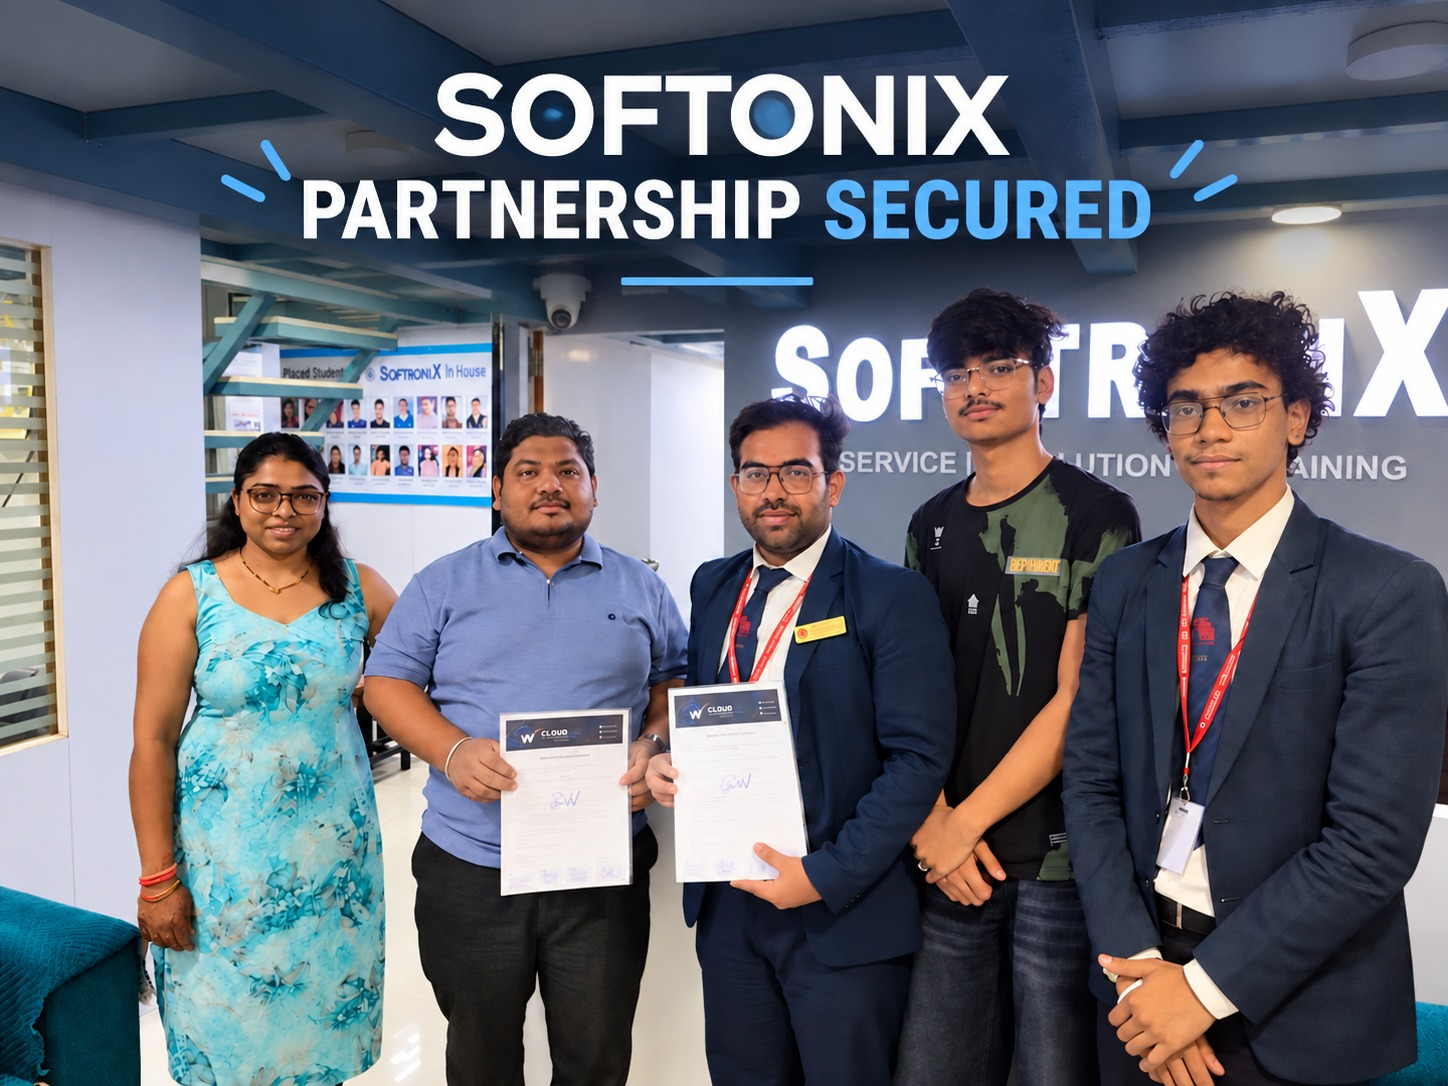
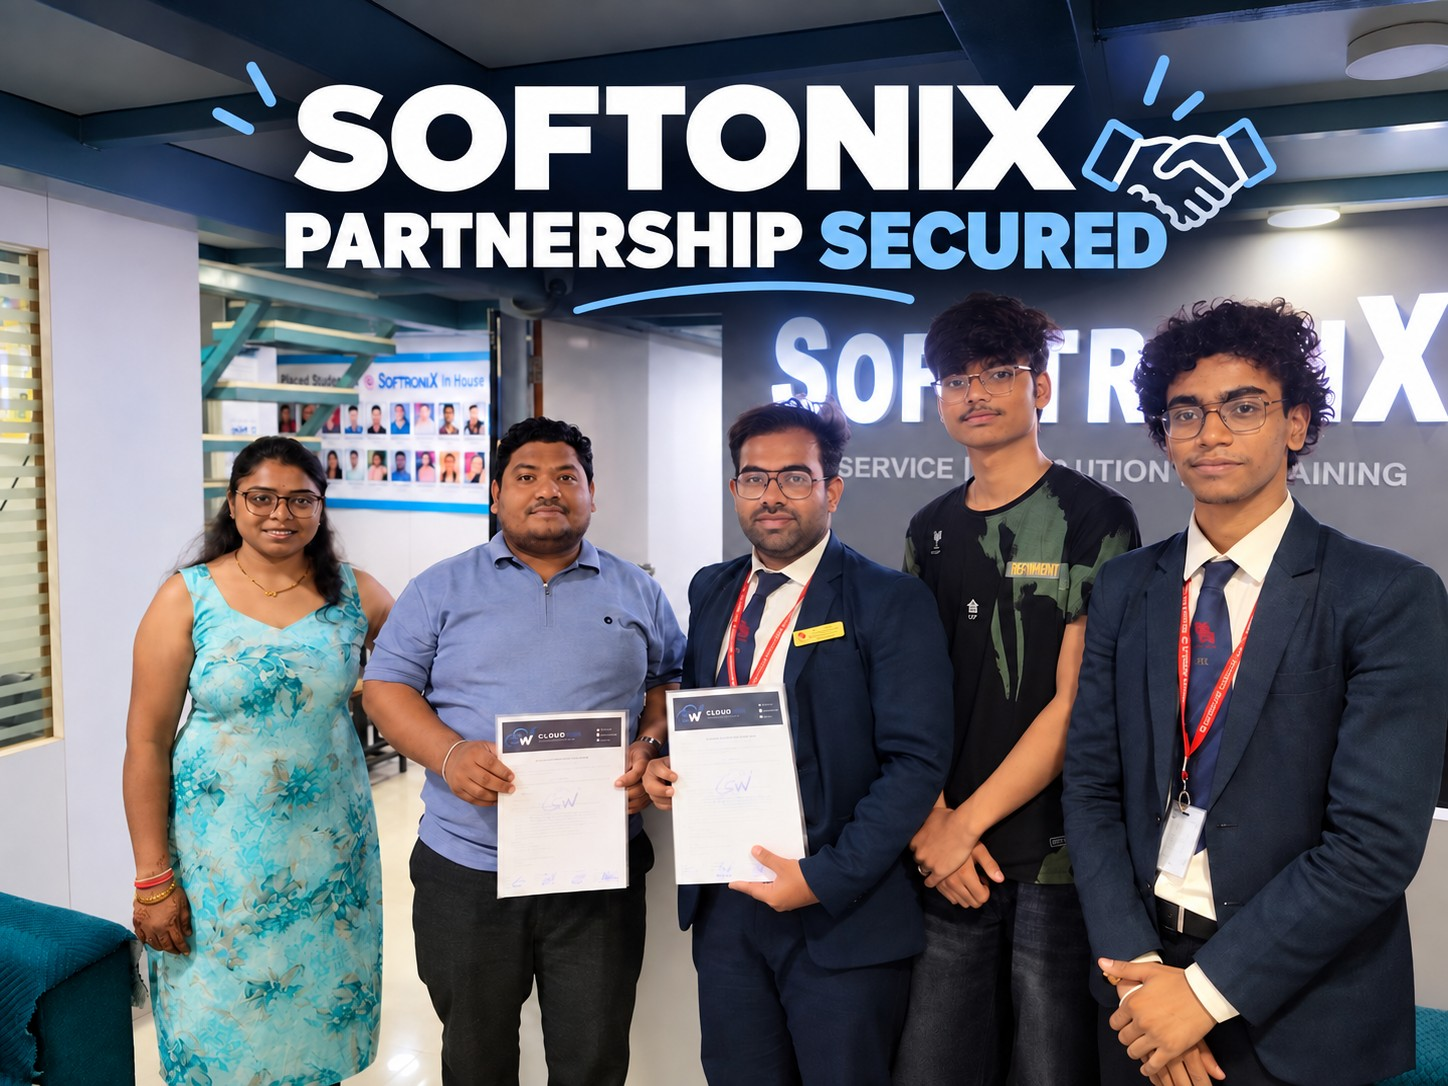
Put Milestones in the coverflow and stop it widening the page on phones
Milestones now uses the same coverflow carousel as the Symbiosis section,
replacing the two-up grid, so both photo sets on the page behave alike.

The coverflow spaced its slides a fixed 300px apart. Slides are 260px wide
on phones, so the side slides landed far off-screen and dragged the whole
page to 767px on a 289px viewport — a sideways scroll on every phone, on the
Symbiosis carousel too since it was first added. Spacing is now 65% of the
slide's own width, which is the original 300px at the 460px desktop size and
tightens with the slide on smaller screens, and the region clips on the x
axis so a peeking slide can never widen the page. Measured afterwards: page
width equals viewport width at both 289px and 1425px.

Also takes the updated Softronix graphic. Like the Symbiosis one before it,
it arrived as a PNG under a .jpg name at 2MB and is now a real JPEG at 307KB.
Its alt text now mentions the banner, matching the other slides.

diff --git a/src/app/campus/page.tsx b/src/app/campus/page.tsx
@@ -1,5 +1,4 @@
 import type { Metadata } from "next";
-import Image from "next/image";
 import Link from "next/link";
 import { Footer } from "@/components/footer/footer";
 import { ProductMock } from "@/components/campus/product-mock";
@@ -121,30 +120,7 @@ export default function CampusPage() {
           <span className="mt-2 block text-text-secondary">The platform under load.</span>
         </h2>
 
-        {/* Two images side by side rather than a second carousel: a coverflow
-            of two leaves one slide stranded at the edge, and two pictures fit
-            the width anyway. */}
-        <ul className="grid grid-cols-1 gap-x-10 gap-y-14 md:grid-cols-2">
-          {CAMPUS_MILESTONES.map((item) => (
-            <li key={item.id}>
-              <figure>
-                <div className="relative aspect-[4/3] overflow-hidden rounded-sm border border-border bg-surface/40">
-                  <Image
-                    src={item.src}
-                    alt={item.alt}
-                    fill
-                    sizes="(max-width: 768px) 100vw, 50vw"
-                    className="object-cover"
-                  />
-                </div>
-                <figcaption className="mt-6 border-t border-border pt-6">
-                  <p className="font-mono text-[11px] tracking-[0.2em] text-text uppercase">{item.title}</p>
-                  <p className="mt-2 max-w-md text-sm leading-relaxed text-text-secondary">{item.caption}</p>
-                </figcaption>
-              </figure>
-            </li>
-          ))}
-        </ul>
+        <Coverflow items={CAMPUS_MILESTONES} label="CloudWeb milestones: the Softronix partnership and Campus under load" />
       </section>
 
       <section className="cw-container border-t border-border py-20 md:py-28">

diff --git a/src/components/shared/coverflow.tsx b/src/components/shared/coverflow.tsx
@@ -16,7 +16,11 @@ export interface CoverflowItem {
 
 const DEPTH = 220;
 const ROTATION = 38;
-const SPACING = 300;
+/** Horizontal step between slides, as a percentage of the slide's own width
+ *  rather than fixed pixels: slides are 260px on phones and 460px on desktop,
+ *  and a fixed 300px step flung the side slides off a phone screen and made the
+ *  whole page scroll sideways. 65% of 460px is the original desktop spacing. */
+const SPACING_PCT = 65;
 const SCALE_STEP = 0.14;
 const MIN_SCALE = 0.55;
 const MAX_VISIBLE = 2;
@@ -90,7 +94,9 @@ export function Coverflow({ items, label, className }: { items: CoverflowItem[];
       onMouseLeave={() => setPaused(false)}
       onFocus={() => setPaused(true)}
       onBlur={() => setPaused(false)}
-      className={cn("cw-focus-ring relative w-full rounded select-none", className)}
+      // overflow-x-clip, not hidden: it trims the peeking side slides at the
+      // edge without making this a scroll container or clipping vertically.
+      className={cn("cw-focus-ring relative w-full overflow-x-clip rounded select-none", className)}
       style={{ perspective: reducedMotion ? undefined : 1400 }}
     >
       <motion.div
@@ -124,7 +130,7 @@ export function Coverflow({ items, label, className }: { items: CoverflowItem[];
                       opacity: isActive ? 1 : 0.4,
                       rotateY: -offset * ROTATION,
                       scale,
-                      x: offset * SPACING,
+                      x: `${offset * SPACING_PCT}%`,
                       z: -Math.abs(offset) * DEPTH,
                     }
               }

diff --git a/src/lib/constants/campus.ts b/src/lib/constants/campus.ts
@@ -120,7 +120,7 @@ export const CAMPUS_MILESTONES: CampusProofItem[] = [
   {
     id: "softronix",
     src: "/campus/softronix-partnership.jpg",
-    alt: "Representatives of CloudWeb and Softronix standing together at the Softronix office, holding the signed partnership agreement.",
+    alt: "Representatives of CloudWeb and Softronix standing together at the Softronix office, holding the signed partnership agreement, under a 'Partnership secured' banner.",
     title: "Softronix partnership",
     caption: "Agreement signed with Softronix, extending Campus to their training and placement programmes.",
   },
